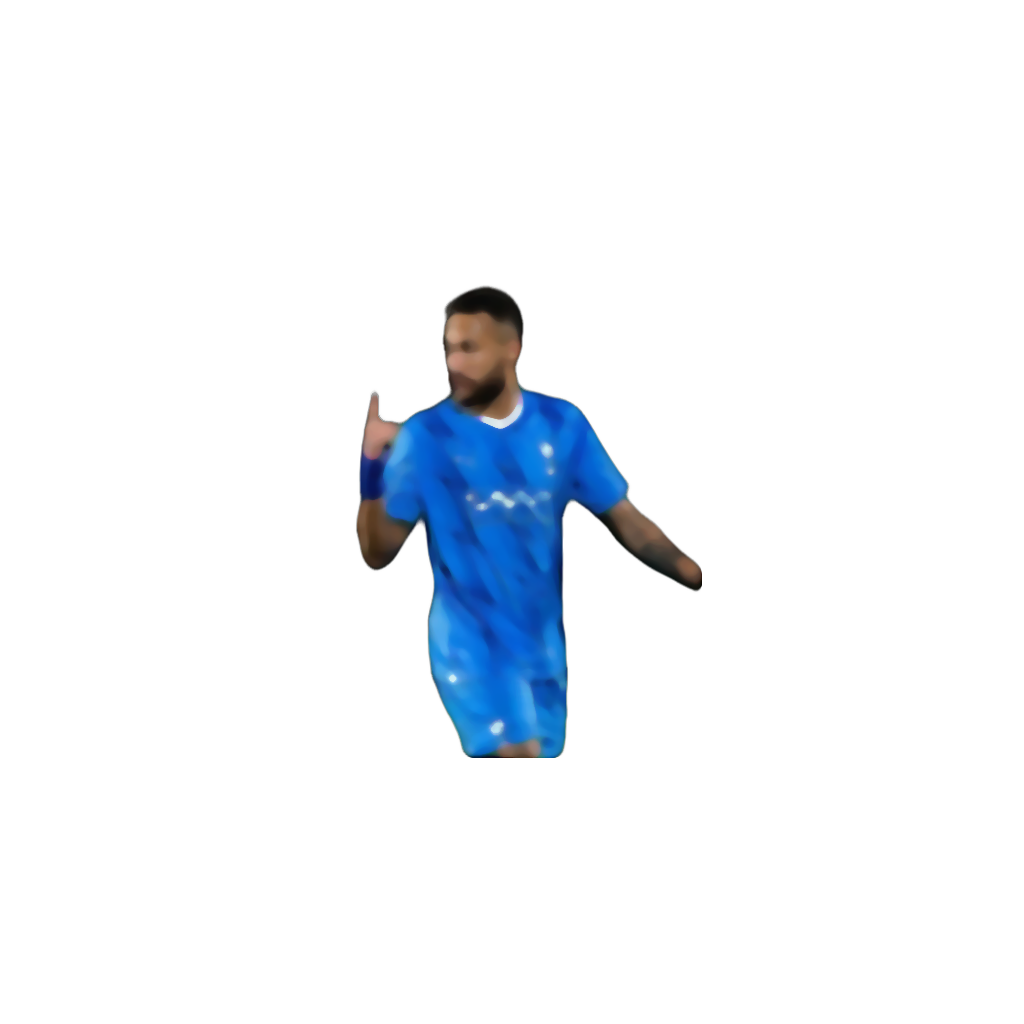
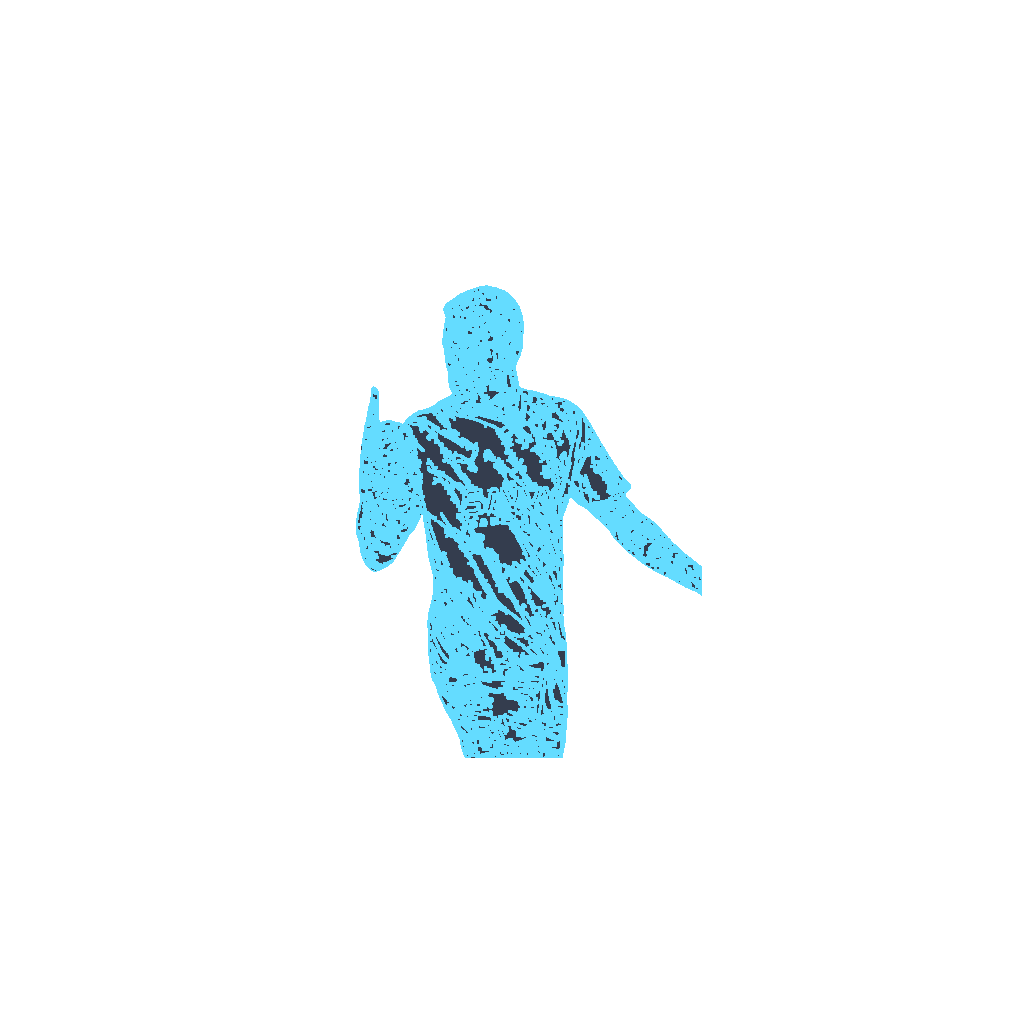
Replace median filter with Canny edges for football silhouettes
Dark body fill with cyan edge lines - looks like a blueprint/wireframe.
Kit details visible but faces obscured.

Changed region(s): [[0.3438, 0.2812, 0.6875, 0.75]]

diff --git a/scripts/content/football_canny.py b/scripts/content/football_canny.py
@@ -1,0 +1,64 @@
+"""Re-process football silhouettes: Canny edges with colored lines on dark fill."""
+from pathlib import Path
+import cv2
+import numpy as np
+from PIL import Image
+
+ASSETS = Path(__file__).resolve().parents[2] / "public" / "assets" / "football"
+
+
+def canny_silhouette(original: Image.Image) -> Image.Image:
+    """Create a colored-edge silhouette: dark filled shape with bright edge lines."""
+    arr = np.array(original)
+    alpha = arr[:, :, 3]
+
+    # Convert RGB to grayscale for edge detection
+    gray = cv2.cvtColor(arr[:, :, :3], cv2.COLOR_RGB2GRAY)
+
+    # Canny edge detection
+    edges = cv2.Canny(gray, 40, 120)
+
+    # Dilate edges so they're clearly visible
+    kernel = np.ones((3, 3), np.uint8)
+    edges = cv2.dilate(edges, kernel, iterations=1)
+
+    # Build output: dark silhouette fill + bright cyan edge lines
+    out = np.zeros((arr.shape[0], arr.shape[1], 4), dtype=np.uint8)
+
+    # Dark fill where original has alpha (the body shape)
+    body_mask = alpha > 30
+    out[body_mask, 0] = 20   # R
+    out[body_mask, 1] = 30   # G
+    out[body_mask, 2] = 50   # B
+    out[body_mask, 3] = 220  # A
+
+    # Bright cyan edges on top
+    edge_mask = (edges > 0) & (alpha > 30)
+    out[edge_mask, 0] = 100  # R
+    out[edge_mask, 1] = 220  # G
+    out[edge_mask, 2] = 255  # B
+    out[edge_mask, 3] = 255  # A
+
+    return Image.fromarray(out, "RGBA")
+
+
+def main() -> None:
+    originals = sorted(ASSETS.glob("*-original.png"))
+    count = 0
+    for orig_path in originals:
+        slug = orig_path.name.replace("-original.png", "")
+        sil_path = ASSETS / f"{slug}-silhouette.png"
+        try:
+            original = Image.open(orig_path).convert("RGBA")
+            sil = canny_silhouette(original)
+            sil.save(sil_path)
+            print(f"OK: {slug}")
+            count += 1
+        except Exception as exc:
+            print(f"FAILED: {slug}: {exc}")
+
+    print(f"\nDone: {count} silhouettes updated.")
+
+
+if __name__ == "__main__":
+    main()
